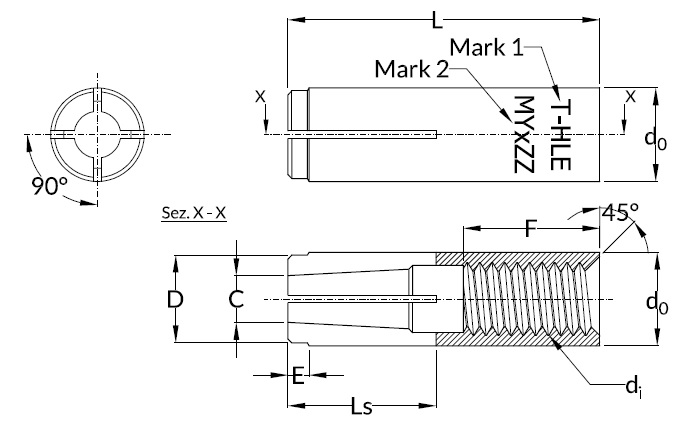
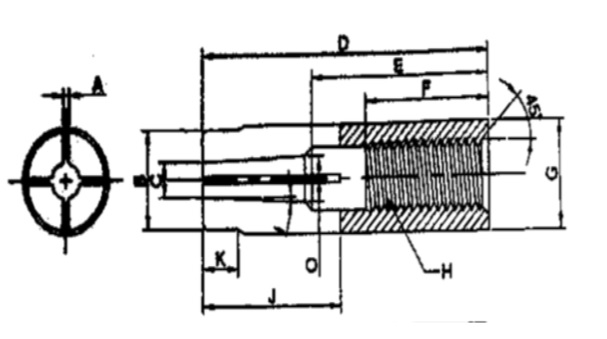
Add files via upload

diff --git a/index.html b/index.html
@@ -393,7 +393,7 @@ function getSketchFileForCategory(code){
     case 'PLUG': return 'plug.jpg';
     case 'TOOL': return 'special_tool.jpg';
     case 'SLEEVE_A': return 'sleeve_A.jpg';
-    case 'SLEEVE_B': return 'sleeve_A.jpg';
+    case 'SLEEVE_B': return 'sleeve_B.jpg';
     case 'SLEEVE_H': return 'sleeve_H.jpg';
     case 'FINISHED_A': return 'finish_A.jpg';
     case 'FINISHED_B': return 'finish_A.jpg';
